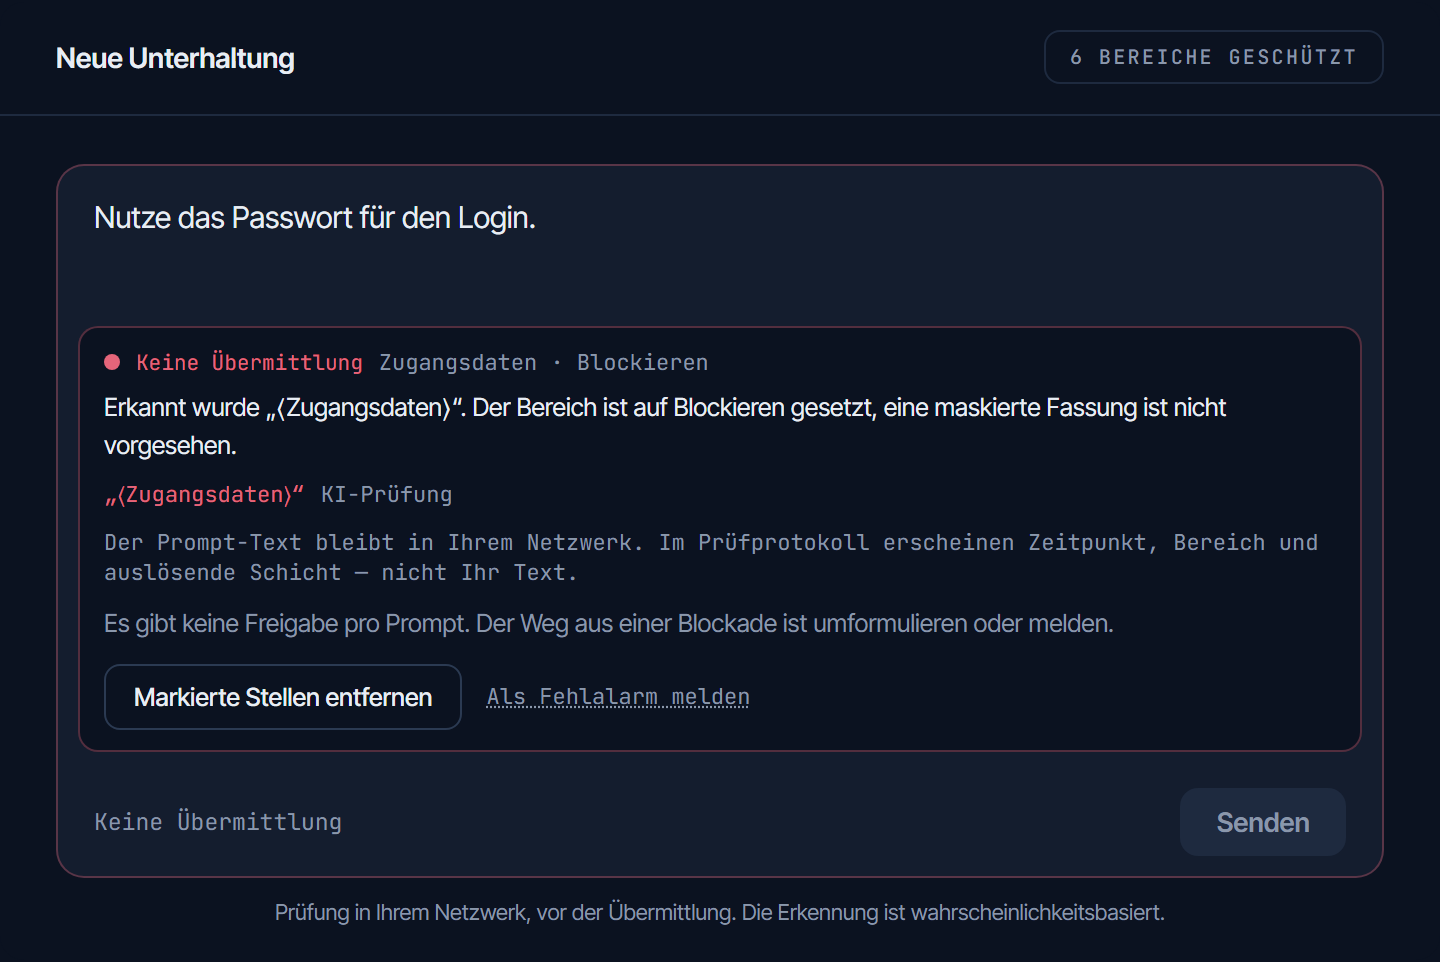
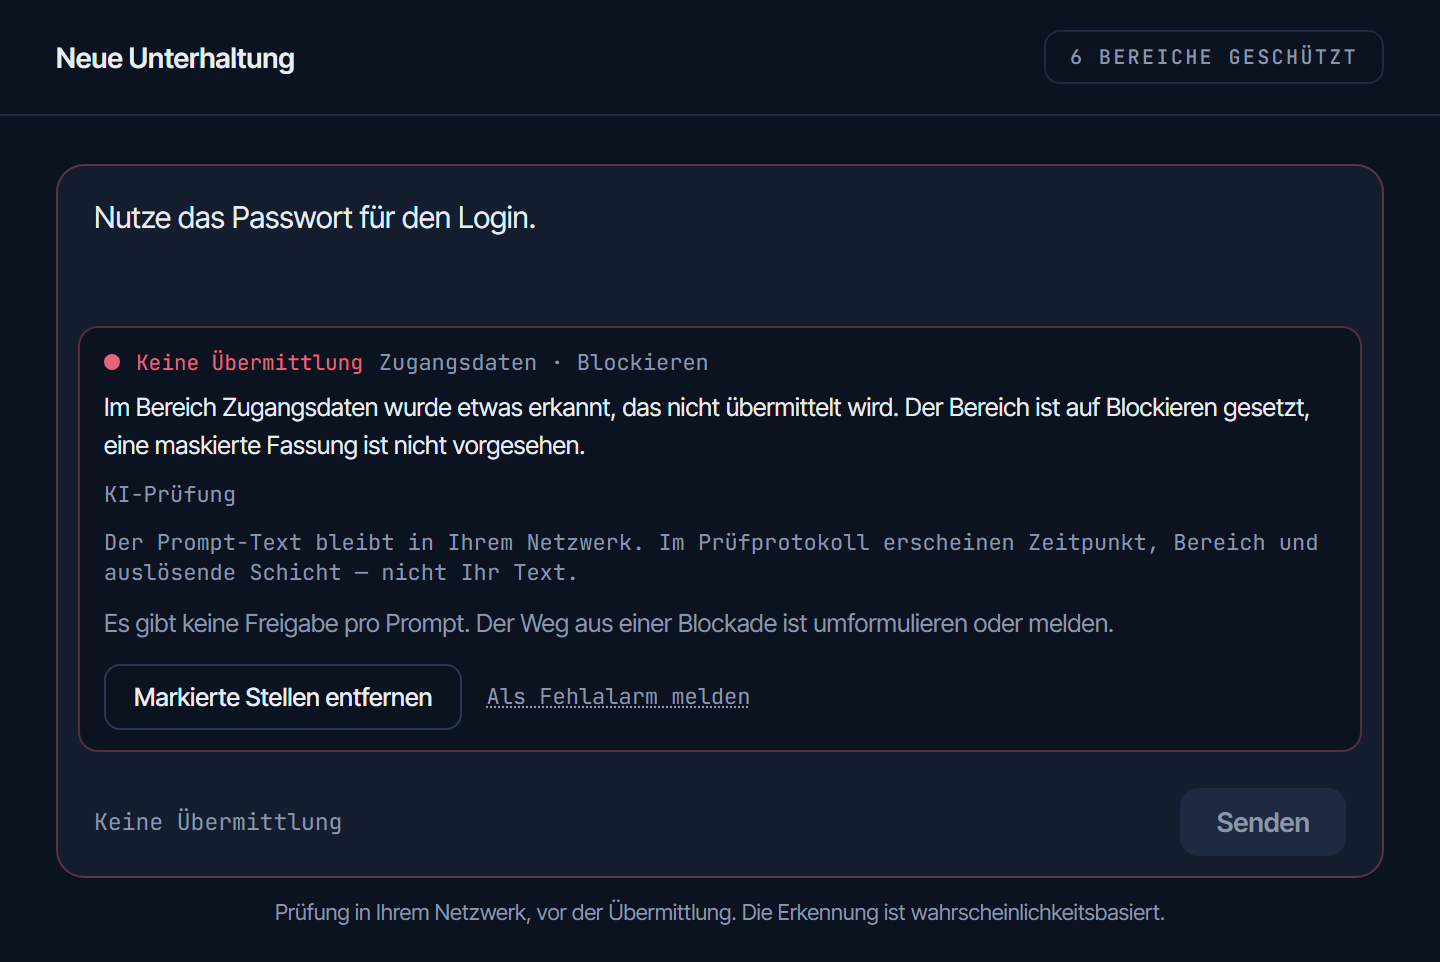
S9 review fixes: degraded coverage honesty, human rule label, block wording
Three post-screenshot review findings:
- degraded: a clean result under degraded coverage now reads "· nur Regeln" in the
  composer footer (composer.status_clean_degraded) instead of claiming a full check —
  the UI no longer overstates coverage (NG-2/NG-24).
- touched: attribution shows the human rule label via ruleDisplayName (SF-5026), e.g.
  Regel „E-Mail-Adresse", never the RULE-EMAIL code constant.
- blocked: block.body reworded to name the area ("Im Bereich {area} wurde etwas erkannt,
  das nicht übermittelt wird.") and the detected line shows the layer only — says what it
  means without echoing the placeholder or the credential value (deliberate deviation from
  the literal §3 block.body {spans} string).

Screenshots regenerated; +4 web tests (ruleDisplayName, degraded status). 76 web green.

Changed region(s): [[0.0625, 0.4054, 0.9062, 0.5301]]

diff --git a/web/src/mirror/BlockPanel.tsx b/web/src/mirror/BlockPanel.tsx
@@ -1,13 +1,15 @@
 import type { JSX } from 'react'
 import type { InspectionVerdict, Locale } from '../types'
 import { buildBlockModel } from './buildBlockModel'
-import { Msg, Content, formatMessage } from '../i18n'
+import { ruleDisplayName } from './ruleDisplayName'
+import { Msg } from '../i18n'
 import { color, radius, text, secondaryButton, monoLink } from '../design'
 
 // SF-5025 — the blocked variant of the mirror (Handoff §1.1 `blocked`). No submission is
-// offered; the panel quotes the detected spans with their layer, reassures that only
-// time/area/layer reach the ledger (not the text), and states there is NO per-prompt
-// approval (rule 7). The way out is remove-and-rephrase or report — both here.
+// offered. The body names the AREA that fired (it does not echo the detected value — for
+// credentials that would defeat the block) and states there is NO per-prompt approval
+// (rule 7). Each detected span is attributed by its layer (Regel „…“ / KI-Prüfung). The way
+// out is remove-and-rephrase or report — both here.
 export interface BlockPanelProps {
   verdict: InspectionVerdict
   locale: Locale
@@ -17,7 +19,6 @@ export interface BlockPanelProps {
 export function BlockPanel({ verdict, locale }: BlockPanelProps): JSX.Element {
   const model = buildBlockModel(verdict)
   const areas = model.areas.join(', ')
-  const spans = model.detected.map((d) => `„${d.value}“`).join(` ${formatMessage('block.body_join', locale)} `)
 
   return (
     <section
@@ -36,13 +37,12 @@ export function BlockPanel({ verdict, locale }: BlockPanelProps): JSX.Element {
         <Msg k="block.summary" locale={locale} p={{ area: areas }} style={{ ...text.monoMeta, color: color.muted }} />
       </header>
 
-      <Msg k="block.body" locale={locale} p={{ spans }} as="p" style={{ ...text.explain, color: color.ink, margin: '0 0 8px' }} />
+      <Msg k="block.body" locale={locale} p={{ area: areas }} as="p" style={{ ...text.explain, color: color.ink, margin: '0 0 8px' }} />
 
-      <ul style={{ listStyle: 'none', margin: '0 0 8px', padding: 0 }}>
+      <ul style={{ listStyle: 'none', margin: '0 0 8px', padding: 0, display: 'grid', gap: 4 }}>
         {model.detected.map((d, i) => (
-          <li key={i} style={{ display: 'flex', gap: 8, ...text.monoAttribution, color: color.muted }}>
-            <Content style={{ color: color.red }}>„{d.value}“</Content>
-            <Msg k={d.layerLabelKey} locale={locale} p={{ name: d.ruleId ?? '' }} />
+          <li key={i} style={{ ...text.monoAttribution, color: color.muted }}>
+            <Msg k={d.layerLabelKey} locale={locale} p={{ name: ruleDisplayName(d.ruleId, locale) }} />
           </li>
         ))}
       </ul>

diff --git a/web/src/i18n/catalogue.ts b/web/src/i18n/catalogue.ts
@@ -19,6 +19,7 @@ export const de: Catalogue = {
   'composer.status_nothing_sent': 'Noch nichts übermittelt',
   'composer.status_inspecting': 'Prüfung läuft …',
   'composer.status_clean': 'Übermittlung: unverändert · nichts erkannt',
+  'composer.status_clean_degraded': 'Übermittlung: unverändert · nichts erkannt · nur Regeln',
   'composer.status_touched': 'Die Antwort nutzt dieselben Platzhalter. Sie ersetzen sie lokal.',
   'composer.locked': 'Eingabe gesperrt, bis die Bereiche bestätigt sind.',
   'footnote.default': 'Prüfung in Ihrem Netzwerk, vor der Übermittlung. Die Erkennung ist wahrscheinlichkeitsbasiert.',
@@ -181,7 +182,7 @@ export const de: Catalogue = {
   'mirror.summary': '{n} Stellen · {areas} · Maskieren',
   'mirror.summary_one': '1 Stelle · {areas} · Maskieren',
   'block.summary': '{area} · Blockieren',
-  'block.body': 'Erkannt wurde {spans}. Der Bereich ist auf Blockieren gesetzt, eine maskierte Fassung ist nicht vorgesehen.',
+  'block.body': 'Im Bereich {area} wurde etwas erkannt, das nicht übermittelt wird. Der Bereich ist auf Blockieren gesetzt, eine maskierte Fassung ist nicht vorgesehen.',
   'block.body_join': 'und',
   'block.remove': 'Markierte Stellen entfernen',
   'block.report': 'Als Fehlalarm melden',
@@ -227,6 +228,7 @@ export const en: Catalogue = {
   'composer.status_nothing_sent': 'Nothing transmitted yet',
   'composer.status_inspecting': 'Inspecting …',
   'composer.status_clean': 'Transmission: unchanged · nothing detected',
+  'composer.status_clean_degraded': 'Transmission: unchanged · nothing detected · rules only',
   'composer.status_touched': 'The reply uses the same placeholders. They are restored locally.',
   'composer.locked': 'Input locked until the areas are confirmed.',
   'footnote.default': 'Inspection runs in your network, before transmission. Detection is probabilistic.',
@@ -389,7 +391,7 @@ export const en: Catalogue = {
   'mirror.summary': '{n} spans · {areas} · Redact',
   'mirror.summary_one': '1 span · {areas} · Redact',
   'block.summary': '{area} · Block',
-  'block.body': 'Detected: {spans}. This area is set to Block; no redacted version is offered.',
+  'block.body': 'Something in the {area} area was detected and will not be transmitted. This area is set to Block; no redacted version is offered.',
   'block.body_join': 'and',
   'block.remove': 'Remove marked spans',
   'block.report': 'Report as false positive',

diff --git a/web/src/mirror/ruleDisplayName.ts b/web/src/mirror/ruleDisplayName.ts
@@ -1,0 +1,26 @@
+import type { Locale } from '../types'
+
+// SF-5026 — the human rule label shown in the attribution row (Handoff mirror.layer_rule
+// "Regel „{name}“"). The verdict carries the rule id (a code constant like RULE-EMAIL); the
+// user must never see the constant. These mirror the core RuleFamily labelDe/labelEn; an
+// unknown id is humanised rather than shown raw.
+const NAMES: Record<string, { de: string; en: string }> = {
+  'RULE-CONTRACT': { de: 'Vertragsnummer', en: 'Contract number' },
+  'RULE-EMAIL': { de: 'E-Mail-Adresse', en: 'E-mail address' },
+  'RULE-IBAN': { de: 'IBAN', en: 'IBAN' },
+  'RULE-STEUERNUMMER': { de: 'Steuernummer', en: 'Tax number' },
+  'RULE-HRN': { de: 'Handelsregisternummer', en: 'Commercial register number' },
+  'RULE-PERCENT-PRICE': { de: 'Prozentangabe im Preiskontext', en: 'Percentage in a price context' },
+  'RULE-REPO': { de: 'Repository', en: 'Repository' },
+}
+
+export function ruleDisplayName(ruleId: string | undefined, locale: Locale): string {
+  if (!ruleId) return ''
+  const known = NAMES[ruleId]
+  if (known) return locale === 'en' ? known.en : known.de
+  return ruleId
+    .replace(/^RULE-/, '')
+    .split('-')
+    .map((w) => w.charAt(0).toUpperCase() + w.slice(1).toLowerCase())
+    .join(' ')
+}

diff --git a/web/src/mirror/SubmissionMirror.tsx b/web/src/mirror/SubmissionMirror.tsx
@@ -1,6 +1,7 @@
 import type { JSX } from 'react'
 import type { InspectionVerdict, Locale } from '../types'
 import { buildMirrorModel } from './buildMirrorModel'
+import { ruleDisplayName } from './ruleDisplayName'
 import { Msg, Content } from '../i18n'
 import { color, radius, text, chip, monoLink } from '../design'
 
@@ -57,7 +58,7 @@ export function SubmissionMirror({ verdict, locale }: SubmissionMirrorProps): JS
         {model.rows.map((r, i) => (
           <li key={i} data-area={r.area} data-placeholder={r.placeholder} style={{ display: 'grid', gridTemplateColumns: '132px auto 1fr auto', gap: 10, alignItems: 'baseline' }}>
             <Content style={chip()}>{r.placeholder}</Content>
-            <Msg k={r.layerLabelKey} locale={locale} p={{ name: r.ruleId ?? '' }} style={{ ...text.monoAttribution, color: color.muted }} />
+            <Msg k={r.layerLabelKey} locale={locale} p={{ name: ruleDisplayName(r.ruleId, locale) }} style={{ ...text.monoAttribution, color: color.muted }} />
             <Content style={{ ...text.monoAttribution, color: color.muted }}>{r.area}</Content>
             <button type="button" style={monoLink}>
               <Msg k={r.reportActionKey} locale={locale} />

diff --git a/web/src/mirror/ruleDisplayName.test.ts b/web/src/mirror/ruleDisplayName.test.ts
@@ -1,0 +1,18 @@
+import { describe, it, expect } from 'vitest'
+import { ruleDisplayName } from './ruleDisplayName'
+
+describe('SF-5026 ruleDisplayName (human rule label, never the code constant)', () => {
+  it('maps a known rule id to its German / English name', () => {
+    expect(ruleDisplayName('RULE-EMAIL', 'de')).toBe('E-Mail-Adresse')
+    expect(ruleDisplayName('RULE-EMAIL', 'en')).toBe('E-mail address')
+    expect(ruleDisplayName('RULE-PERCENT-PRICE', 'de')).toBe('Prozentangabe im Preiskontext')
+  })
+  it('never surfaces the RULE- constant for an unknown id — it humanises it', () => {
+    const label = ruleDisplayName('RULE-CUSTOM-THING', 'de')
+    expect(label).not.toContain('RULE-')
+    expect(label).toBe('Custom Thing')
+  })
+  it('an absent rule id yields an empty label (llm findings have no rule name)', () => {
+    expect(ruleDisplayName(undefined, 'de')).toBe('')
+  })
+})

diff --git a/web/src/composer/deriveComposerView.ts b/web/src/composer/deriveComposerView.ts
@@ -19,7 +19,9 @@ export function deriveComposerView(
     case 'inspecting':
       return { ...base, statusKey: 'composer.status_inspecting', sendLabelKey: 'composer.send', sendTone: 'disabled', borderTone: 'muted', mirrorOpen: false }
     case 'clean':
-      return { ...base, statusKey: 'composer.status_clean', sendLabelKey: 'composer.send', sendTone: 'teal', borderTone: 'muted', mirrorOpen: false }
+      // NG-2/NG-24: a clean result under degraded coverage must NOT read as a full check —
+      // the status line names the reduced basis ("· nur Regeln").
+      return { ...base, statusKey: degraded ? 'composer.status_clean_degraded' : 'composer.status_clean', sendLabelKey: 'composer.send', sendTone: 'teal', borderTone: 'muted', mirrorOpen: false }
     case 'touched':
       return {
         ...base,

diff --git a/web/src/composer/composer.test.ts b/web/src/composer/composer.test.ts
@@ -59,6 +59,10 @@ describe('SF-5012 deriveComposerView', () => {
     expect(deriveComposerView('clean', verdict(0), true).areaMenuLabelKey).toBe('header.rules_only')
     expect(deriveComposerView('clean', verdict(0), true).degraded).toBe(true)
   })
+  it('a clean result under degraded coverage names the reduced basis (NG-2/NG-24)', () => {
+    expect(deriveComposerView('clean', verdict(0)).statusKey).toBe('composer.status_clean')
+    expect(deriveComposerView('clean', verdict(0), true).statusKey).toBe('composer.status_clean_degraded')
+  })
 })
 
 describe('SF-5013 inspectionDebounce', () => {

diff --git a/SESSION-SUMMARY.md b/SESSION-SUMMARY.md
@@ -10,7 +10,8 @@ The problem: Sprint 6 built the behaviour beneath the surface correctly but left
 - **The gate that would have caught it (the deliverable, as much as the fix).** Added a deterministic state harness rendering every §1.1 state + management surface, and two CI gates over it: **token-fidelity** (every rendered element's colour/font/radius/gradient resolves to a §4 token — fails on a raw hex or browser default) and **string-fidelity** (every UI string equals the §3 catalogue per language; no stray/leaked text; the clean composer must read "Senden", the touched composer "Maskiert senden"). Plus an App-level regression (`SF-5017`) encoding the exact shipped bug, and **seven committed screenshots** in `prototype/screenshots/`.
 - **P1 — placeholder contamination.** Root cause: the gateway's forwarding prompt always told the model to preserve "Platzhalter … wie ⟨Preis⟩ oder ⟨Kundenname⟩" — handing a 4B model the exact tokens it then invented on clean prompts. Fix: `buildForwardMessages` preserves placeholders **without** seeding examples, and omits the instruction entirely on a clean wire; `stripUnmappedPlaceholders` removes invented ⟨…⟩ from the **displayed** reply only (never the wire, never the ledger — NG-1/NG-9). **A/B finding** (`scripts/p1_contamination_experiment.py`): gemma3:4b old prompt = 14 invented (8 on clean); new prompt = **0 on clean**; qwen2.5:7b-instruct = **0 under either design** → contamination is model weakness amplified by prompt design. Recommend a ≥7B instruct model for forwarding; keep the strip as defense-in-depth. Verified end-to-end against the running gateway (clean wire → 0 invented).
 - **P2 — ambiguous placeholder name.** `classifyEntityType` maps `RULE-EMAIL` to **"E-Mail-Adresse"**, not the ambiguous "E-Mail" (the model had used ⟨E-Mail⟩ to mean "message": "ich hoffe, diese ⟨E-Mail⟩ findet Sie gut"). Full placeholder-set audit recorded in the source; the remaining names each denote one referent.
-- **New SW-Functions:** SF-5065 radii, SF-5066 global tokens CSS, SF-5067 UI style tokens, SF-5054 `<Msg>`/`<Content>`, SF-5016 area-menu button, SF-5025 block panel, SF-5035 strip-unmapped, SF-5041 forward messages, SF-5091–97 harness + gates + management surfaces + screenshots.
+- **New SW-Functions:** SF-5065 radii, SF-5066 global tokens CSS, SF-5067 UI style tokens, SF-5054 `<Msg>`/`<Content>`, SF-5016 area-menu button, SF-5025 block panel, SF-5026 rule display name, SF-5035 strip-unmapped, SF-5041 forward messages, SF-5091–97 harness + gates + management surfaces + screenshots.
+- **Review follow-ups (post-screenshot):** (1) a clean result under **degraded** coverage now names the reduced basis in the footer ("· nur Regeln") instead of claiming a full check (NG-2/NG-24); (2) the touched attribution shows the **human rule label** (`ruleDisplayName`, e.g. "Regel „E-Mail-Adresse“") rather than the `RULE-EMAIL` code constant; (3) the block body was reworded to name the **area** ("Im Bereich {area} wurde etwas erkannt, das nicht übermittelt wird.") instead of echoing the placeholder — it says what it means without echoing the credential value (a deliberate deviation from the literal §3 `block.body {spans}` string, since we do not echo blocked values). Screenshots regenerated.
 
 ## Sprint 8 — Integration (this run): a running system + one real-service leak found and fixed
 - **Config + health + services:** one `.env` surface (`ng_config.py`), a health-check that names the down service (no silent fallback), the E3 backstop wired to the local model, the kg-gen sidecar on the local model (chunked, clustering off for weak local models), the pinned e5 embedder fetched (recorded commit `d128…`), the B4 bridge (Python E7 → TS briefing), and the **governed web UI served** (gateway + Vite, LAN-reachable, one-command `run_all.py`).
